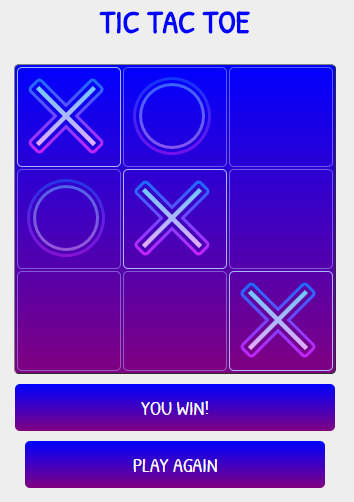
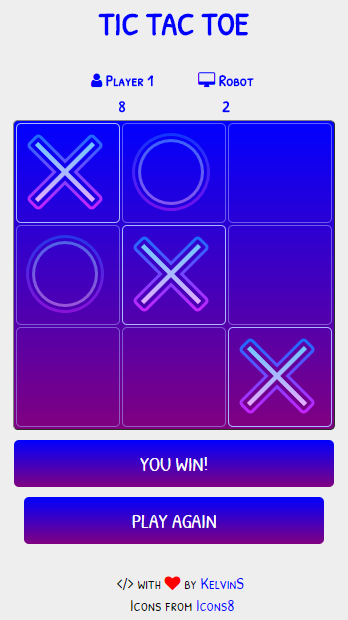
Added scoreboard

diff --git a/static/css/style.css b/static/css/style.css
@@ -1,25 +1,23 @@
 
+/* Set a default font family for all elements */
 body {
 	background-color: #eee;
 	font-family: 'Patrick Hand SC', cursive;
-}
-
-th, td {
-	background-repeat: no-repeat;
-	height: 100px; 
-	width: 100px;
-	text-align: center;
-	cursor: pointer;
-	font-size: 0;
-	border: 1px solid #aab9ff;
-	border-radius: 5px;
 }
 
 h1 {
 	color: blue;
 }
 
-.board {
+table.scoreboard tr td {
+	text-align: center;
+	min-width: 100px;
+	color: blue;
+	font-weight: bold;
+}
+
+/* Define gradient for the board (table) */
+table.board {
 	background: blue; /* For browsers that do not support gradients */
 	background: -webkit-linear-gradient(blue, purple); /* For Safari 5.1 to 6.0 */
 	background: -o-linear-gradient(blue, purple); /* For Opera 11.1 to 12.0 */
@@ -28,6 +26,19 @@ h1 {
 	border-radius: 5px;
 }
 
+/* The width and height are set based on the size of icons */
+table.board tr td {
+	background-repeat: no-repeat;
+	text-align: center;
+	height: 100px; 
+	width: 100px;
+	cursor: pointer;
+	font-size: 0;
+	border: 1px solid #aab9ff;
+	border-radius: 5px;
+}
+
+/* This class is used by the winnerMessageBox and the playAgainButton */
 .hiddenMessages {
 	background: blue; /* For browsers that do not support gradients */
 	background: -webkit-linear-gradient(blue, purple); /* For Safari 5.1 to 6.0 */
@@ -40,20 +51,22 @@ h1 {
 	margin: 10px;
 	padding: 10px;
 	display: none;
-}
-
-#winnerMessageBox {
-	width: 300px;
 	font-size: 20px;
 }
 
+/* Small changes specific for the winnerMessageBox */
+#winnerMessageBox {
+	width: 300px;
+}
+
+/* Small changes specific for the playAgainButton */
 #playAgainButton {
 	cursor: pointer;
 	min-width: 300px;
 	font-family: 'Patrick Hand SC', cursive;
-	font-size: 20px;
 }
 
+/* The height should be set based on the content */
 footer {
 	position: fixed;
 	bottom: 0;
@@ -62,10 +75,12 @@ footer {
 	padding-top: 10px;
 }
 
+/* Change the heart icon color to red */
 #heart-icon {
 	color: red;
 }
 
+/* Remove the links underline and set its color to blue */
 a {
 	text-decoration: none;
 	color: blue;

diff --git a/static/js/main.js b/static/js/main.js
@@ -6,11 +6,18 @@ var positions = [
 	[0, 0, 0]
 ];
 
+// Note: As we are providing the option to only play
+// versus robot the player2 will be always the robot
+
 var gameFinished = false;
 
 // The number to be used for the players
 const nPlayer1 = 1;
 const nPlayer2 = 2;
+
+// Store the score of each player
+var scorePlayer1 = 0;
+var scorePlayer2 = 0;
 
 var startingPlayer = nPlayer1;
 
@@ -19,6 +26,7 @@ const imgPlayer1 = 'url("static/img/p1.png")';
 const imgPlayer2 = 'url("static/img/p2.png")';
 
 var board = document.getElementById("board");
+var scoreboard = document.getElementById("scoreboard");
 var winnerMessageBox = document.getElementById("winnerMessageBox");
 var playAgainButton = document.getElementById("playAgainButton");
 
@@ -176,8 +184,12 @@ function applyOpacity(row1, col1, row2, col2, row3, col3) {
 function showWinner(winnerNumber) {
 	gameFinished = true;
 	if (winnerNumber == nPlayer1) {
+		scorePlayer1 += 1;
+		scoreboard.rows[1].cells[0].innerHTML = scorePlayer1;
 		winnerMessageBox.innerHTML = "YOU WIN!";
 	} else if (winnerNumber == nPlayer2) {
+		scorePlayer2 += 1;
+		scoreboard.rows[1].cells[1].innerHTML = scorePlayer2;
 		winnerMessageBox.innerHTML = "ROBOT WIN!";
 	} else if (winnerNumber == 0) {
 		winnerMessageBox.innerHTML = "DRAW!";

diff --git a/index.html b/index.html
@@ -9,6 +9,19 @@
 	<body>
 		<div align="center">
 			<h1>TIC TAC TOE</h1>
+
+			<table class="scoreboard" id="scoreboard" border=0>
+				<tr>
+					<td><i class="fa fa-user" aria-hidden="true"></i> Player 1</td>
+					<td><i class="fa fa-desktop" aria-hidden="true"></i> Robot</td>
+				</tr>
+				
+				<tr>
+					<td>0</td>
+					<td>0</td>
+				</tr>
+			</table>
+
 			<table class="board" id="board" border=1>
 				<tr>
 					<td>0,0</td>
@@ -28,6 +41,7 @@
 					<td>2,2</td>
 				</tr>
 			</table>
+
 			<div class="hiddenMessages" id="winnerMessageBox"></div>
 			<button class="hiddenMessages" id="playAgainButton" onclick="reset()">PLAY AGAIN</button>
 		
